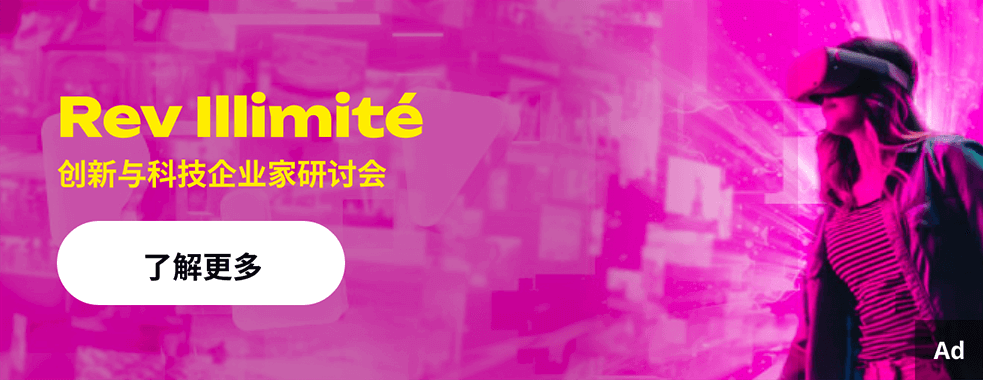
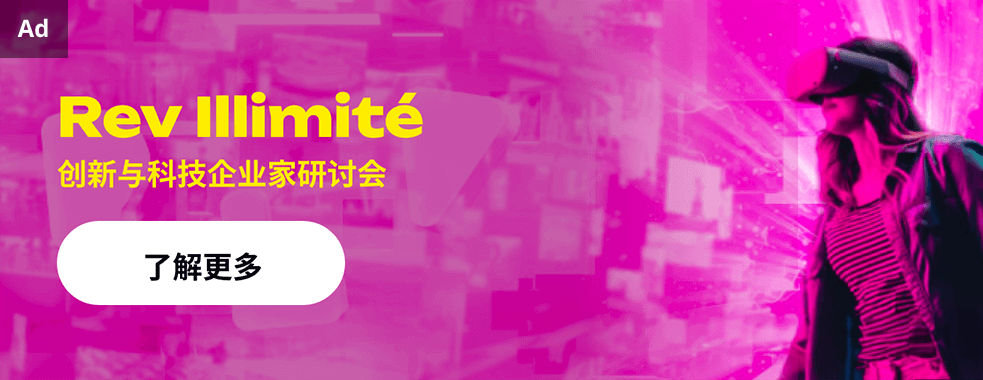
moved ad to top left

Changed region(s): [[0.9156, 0.8105, 1.0, 1.0], [0.0, 0.0, 0.0916, 0.1737]]

diff --git a/flutter_service_worker.js b/flutter_service_worker.js
@@ -37,8 +37,8 @@ const RESOURCES = {"assets/AssetManifest.bin": "65c9b0c1087c36b741802b7575ad3d2a
 "assets/assets/images/event_mockup1_en.png": "e048dd3aa7bff882abb156ca7580a783",
 "assets/assets/images/event_mockup2_ch.png": "be0ed3ed9c26ee2056719a0f0f99b34c",
 "assets/assets/images/event_mockup2_en.png": "17ae7f9d84c77333ac8727e9c752d176",
-"assets/assets/images/home_banner_ch.png": "3ecd510602fcdea2e6a5ce1a2f2d1201",
-"assets/assets/images/home_banner_en.png": "c536543b18e9ce362cc02b4950466088",
+"assets/assets/images/home_banner_ch.png": "ccd55fc20d6aa755f910bfcb60d6ccd0",
+"assets/assets/images/home_banner_en.png": "78d9a5042e01a1ea472d61b808e2914e",
 "assets/assets/images/home_mock_ev0_ch.png": "3e5bf9cfd0472db60dd4fc53fcd00d1c",
 "assets/assets/images/home_mock_ev0_en.png": "9b5c6c671be934b142f56f917ebdef33",
 "assets/assets/images/home_mock_ev1_ch.png": "2e63b3a99d0def81602f30b2ee91be61",
@@ -87,13 +87,13 @@ const RESOURCES = {"assets/AssetManifest.bin": "65c9b0c1087c36b741802b7575ad3d2a
 "canvaskit/skwasm.worker.js": "89990e8c92bcb123999aa81f7e203b1c",
 "favicon.png": "b08399c8df9a34bb2d69b78ebc8c766b",
 "flutter.js": "f393d3c16b631f36852323de8e583132",
-"flutter_bootstrap.js": "cb84024ea937ced3caa898d9374972e8",
+"flutter_bootstrap.js": "36bb626ed60f6f1be0c9e5d0c28cbb65",
 "icons/Icon-192.png": "855c7a411f9193c72b206fca84cfe404",
 "icons/Icon-512.png": "1aba06056ad966c28dcc761f30b784a9",
 "icons/Icon-maskable-192.png": "855c7a411f9193c72b206fca84cfe404",
 "icons/Icon-maskable-512.png": "1aba06056ad966c28dcc761f30b784a9",
-"index.html": "290a7ad0c1cced96a49632a7b0614647",
-"/": "290a7ad0c1cced96a49632a7b0614647",
+"index.html": "6b70a280788b5fe382f02862d646b1f4",
+"/": "6b70a280788b5fe382f02862d646b1f4",
 "lib/submit.php": "0950654d184e94ed2f70376bf4a7beb1",
 "loading.gif": "f61742f8d4363b8c03d9b5200794fd66",
 "main.dart.js": "32d28c3ba7bb028caa733dc39494e0b8",

diff --git a/index.html b/index.html
@@ -41,7 +41,7 @@
 
     <script>
       // The value below is injected by flutter build, do not touch.
-      const serviceWorkerVersion = '"294571272"';
+      const serviceWorkerVersion = '"3354037785"';
   </script>
   <script>
   function changeBackgroundColor(color) {

diff --git a/flutter_bootstrap.js b/flutter_bootstrap.js
@@ -11,6 +11,6 @@ _flutter.buildConfig = {"engineRevision":"c9b9d5780da342eb3f0f5e439a7db06f7d1125
 
 _flutter.loader.load({
   serviceWorkerSettings: {
-    serviceWorkerVersion: "294571272"
+    serviceWorkerVersion: "3354037785"
   }
 });
